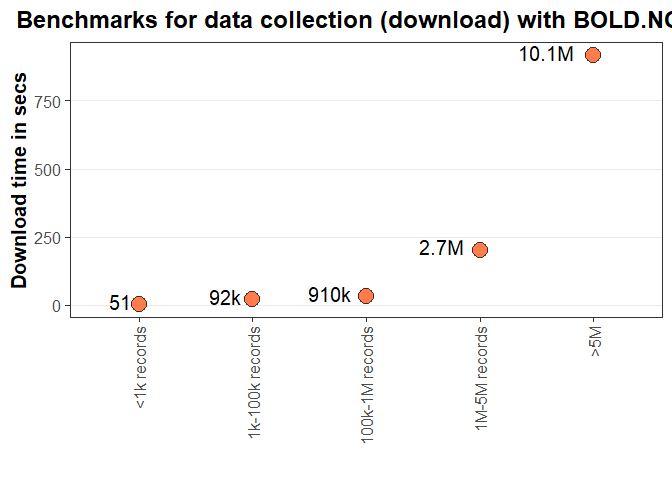
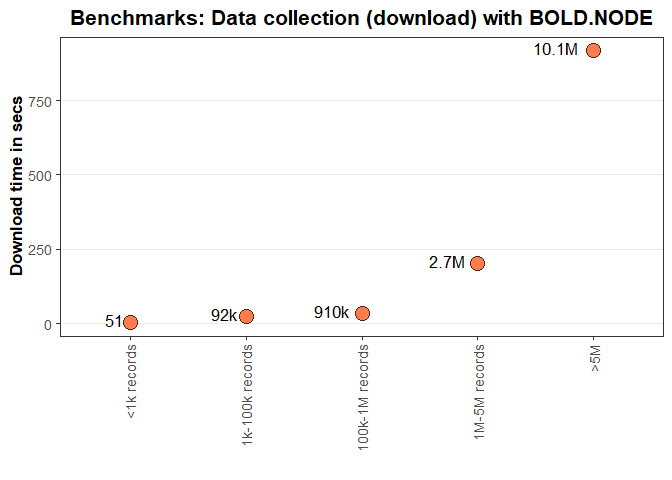
update readme

diff --git a/README.md b/README.md
@@ -173,8 +173,8 @@ ggplot(benchmarks,
   labs(
     x = "",
     y = "Download time in secs",
-    title = "Benchmarks for data collection (download) with BOLD.NODE") +
-  theme_bw(base_size = 15) +
+    title = "Benchmarks: Data collection (download) with BOLD.NODE") +
+  theme_bw(base_size = 13) +
   theme(axis.text.x = element_text(angle = 90, vjust = 0.5, hjust = 1),
     panel.grid.minor = element_blank(),
     panel.grid.major.x = element_blank(),
